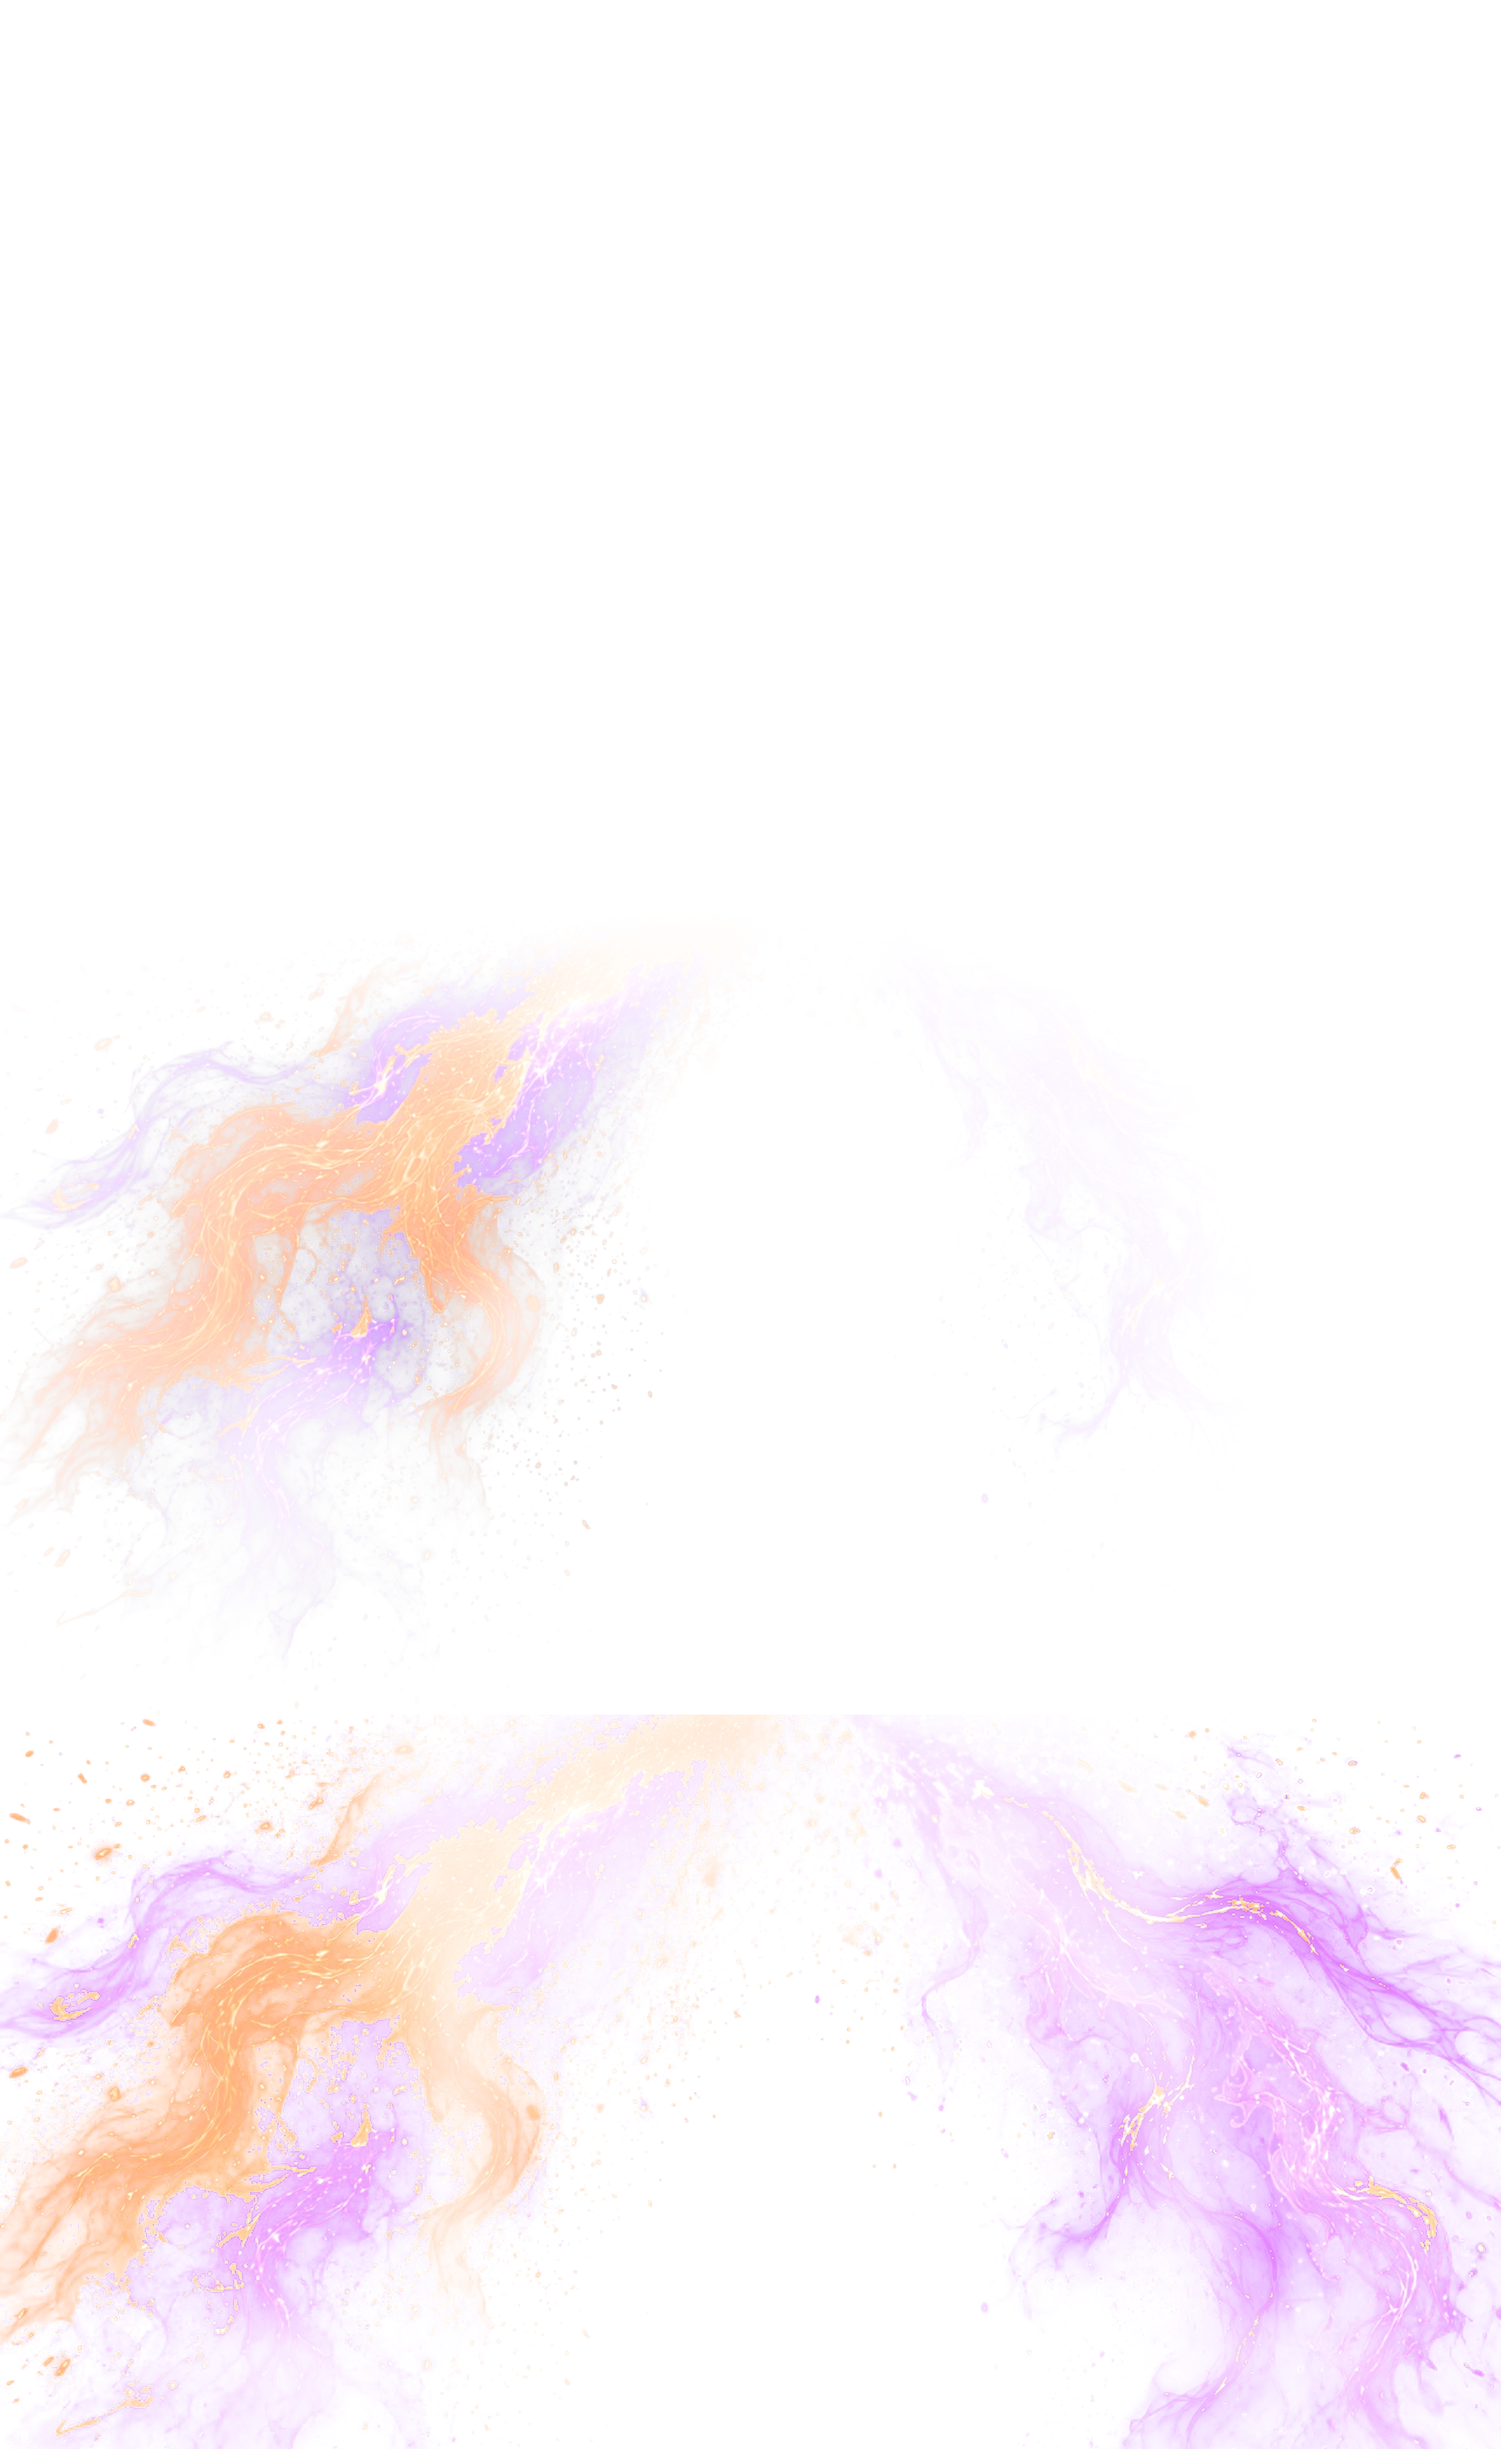
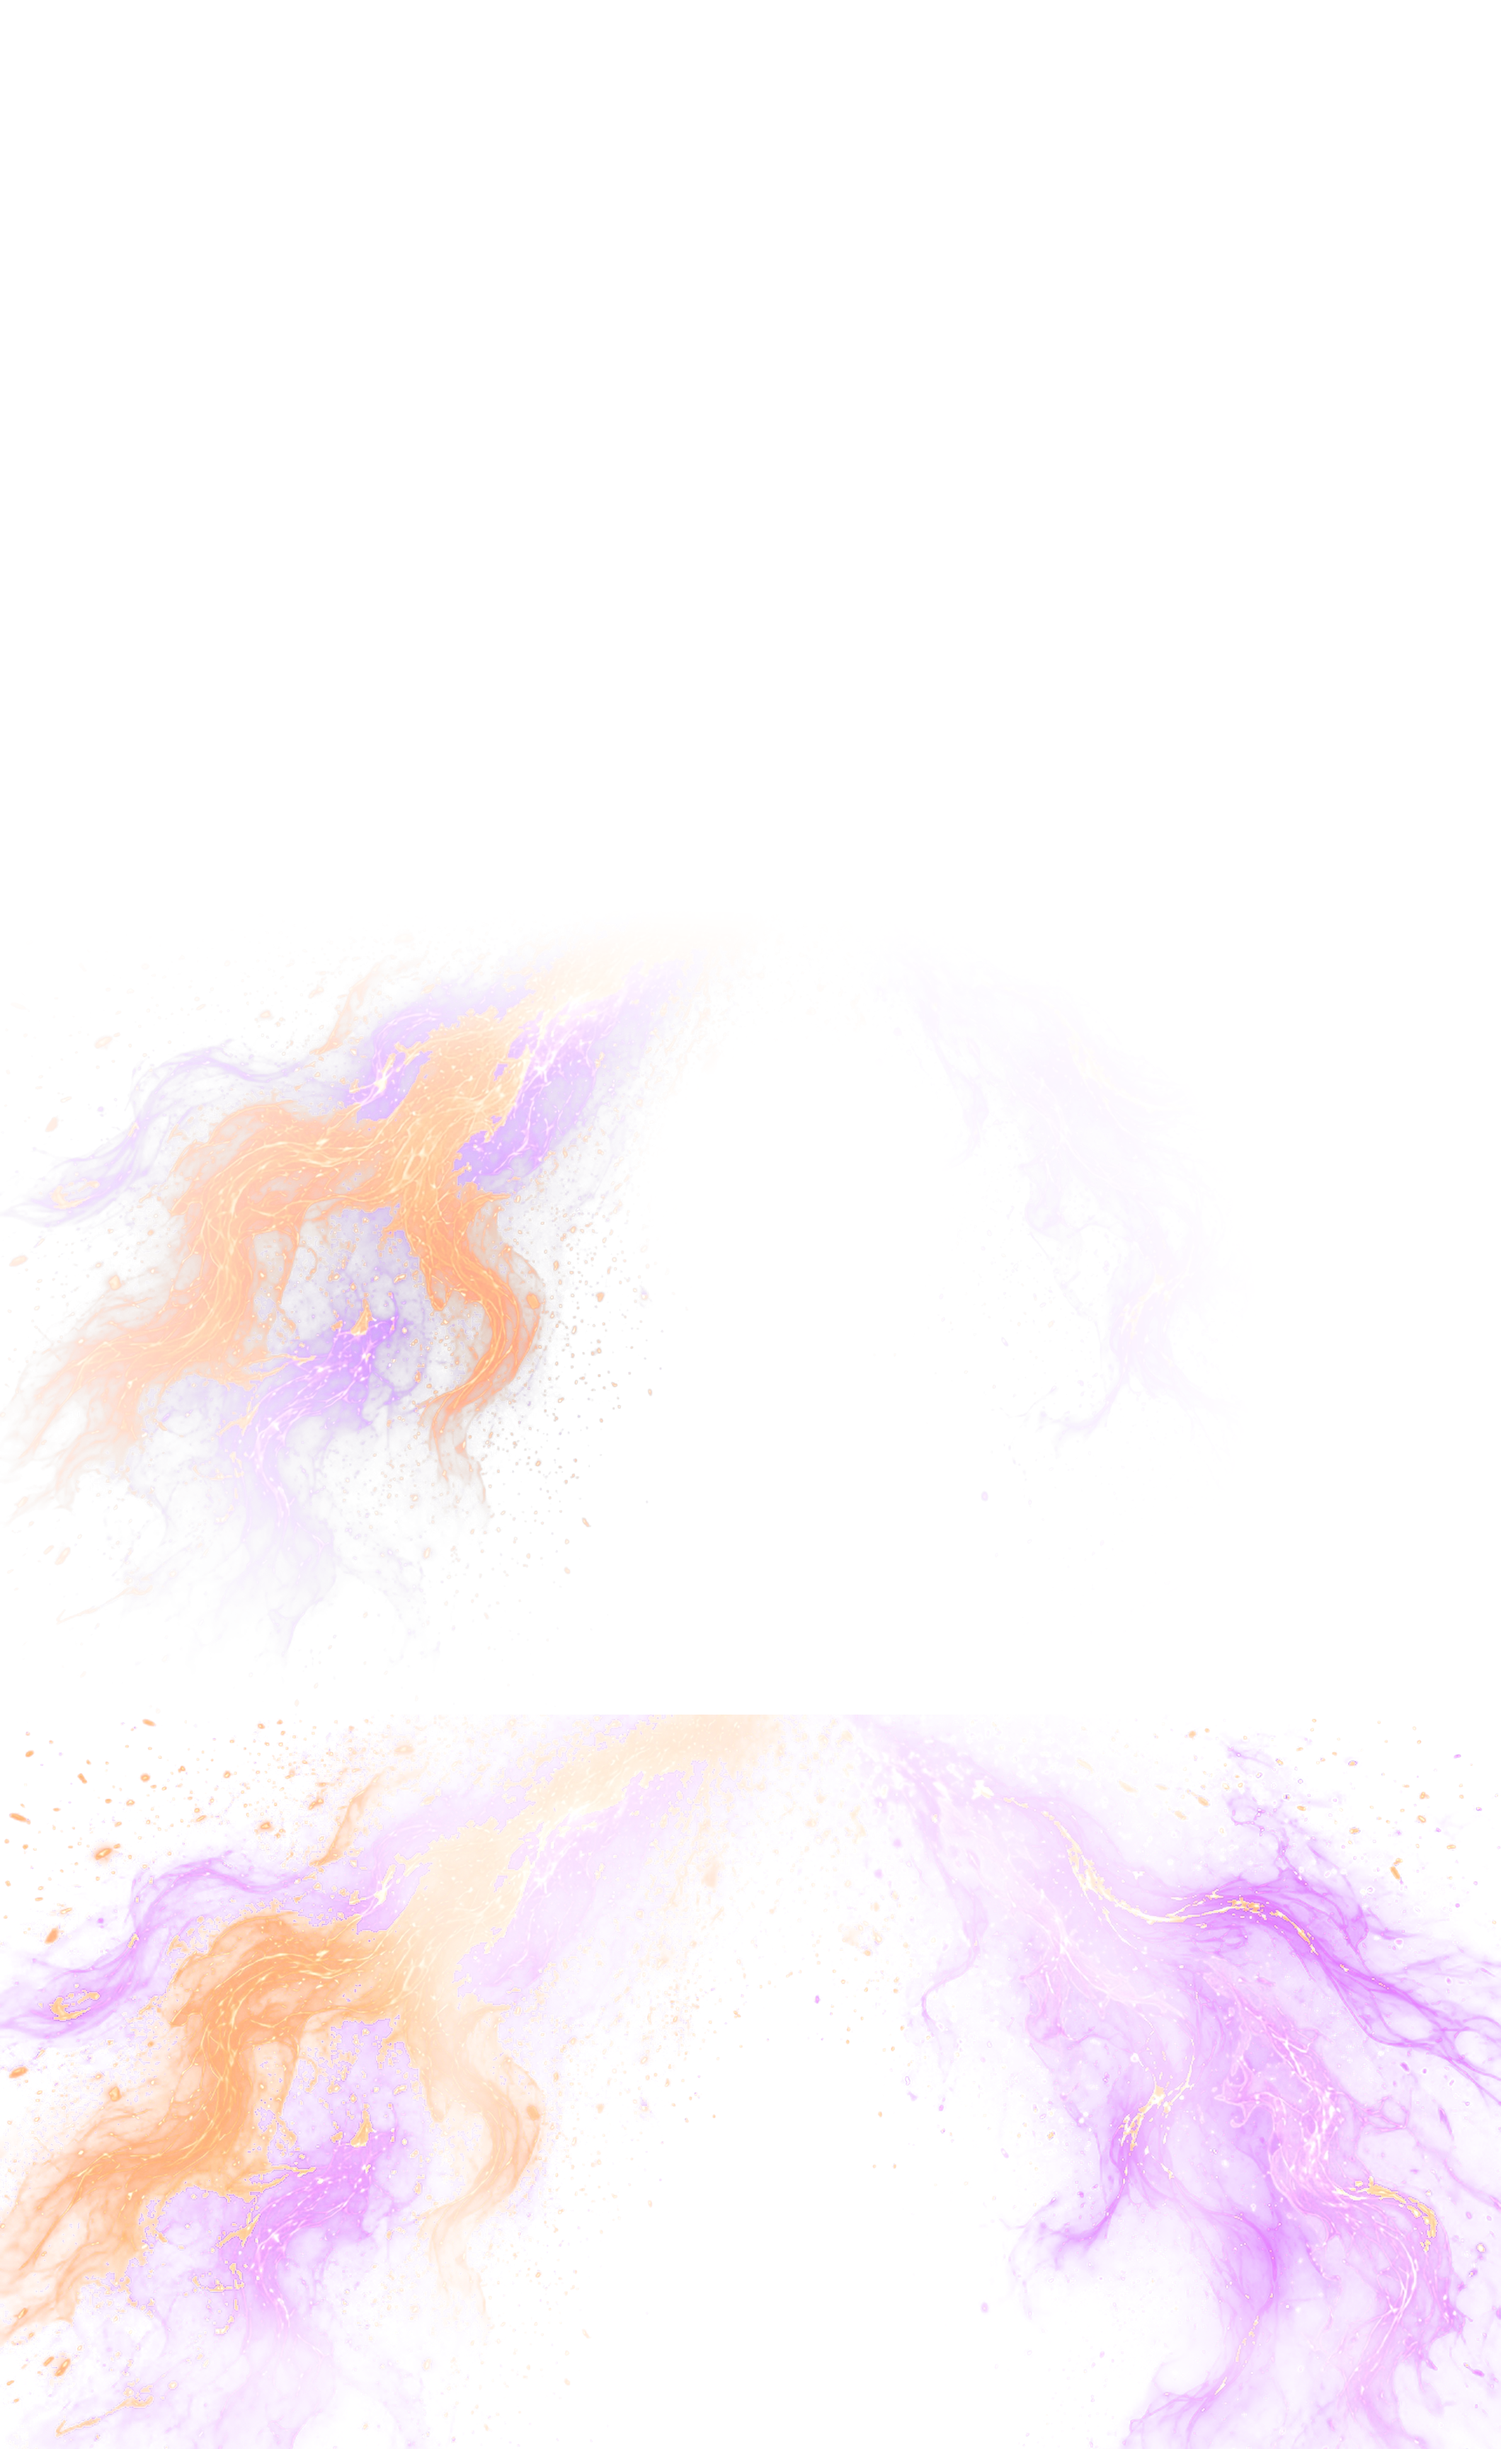
v2: publish 77 King of Coins; 75/76 COIN_GLOW

Changed region(s): [[0.1868, 0.4994, 0.3736, 0.5931], [0.2179, 0.4682, 0.2491, 0.4994]]

diff --git a/v2/PROMPTS.md b/v2/PROMPTS.md
@@ -519,3 +519,12 @@ Nota (12/10, tarde): look.py gera figure.png a partir de figure_key.png (neon se
 - mid: vazio.
 - fg (bottom): asset 6ba7549a flipped and mirrored, two-tone amber / violet; COIN_GLOW=1068,2453,650,520 (work/coinglow.py, a radial patch around the coin with holes at the FIN_HEADBOX faces; keeps fg_base.png).
 - finish: FIG_DEGREEN=1 DEFRINGE=3 EDGE_CHOKE=3 RECOLOR_GREEN=1 RECOLOR_TO=amber (ivy -> gold) FG_BOOST=0.45 FG_BODY=0.75 FIN_HEADBOX=1080,1928,220.
+
+## 77 Rei de Ouros
+- figure (FIG_FIT=1080,2697,1026 FIG_KEEPALL=1 KEY_STRICT=1: ~95% width, stone patch ~130 px above the bottom on the mandala floor): Indian king on a bull-headed throne with a scepter and a gold pentacle, on a stone patch (asset 2f358584).
+- bg (crop x726-1131 of 1280, the tall spire and the sun): golden terraced city at sunset with a mandala terrace floor (asset 926dfae9), plus a soft contact shadow under the patch.
+- mid: vazio.
+- fg (bottom): asset 6ba7549a, two-tone amber / violet; COIN_GLOW=1401,2466,600,500.
+- finish: FIG_DEGREEN=1 DEFRINGE=4 EDGE_CHOKE=5 RECOLOR_GREEN=1 RECOLOR_TO=amber FG_BOOST=0.45 FG_BODY=0.8 FIN_HEADBOX=1083,1975,220.
+
+## Note (75/76/77): COIN_GLOW is now also read by fin.py, which removes the FG_BODY dimming inside the coin area so the glow shows over the figure. Card 75 switched to COIN_GLOW=749,2064,650,520 (base plate regenerated, the hand-made glow is gone); 76 rebuilt with the same exemption.
